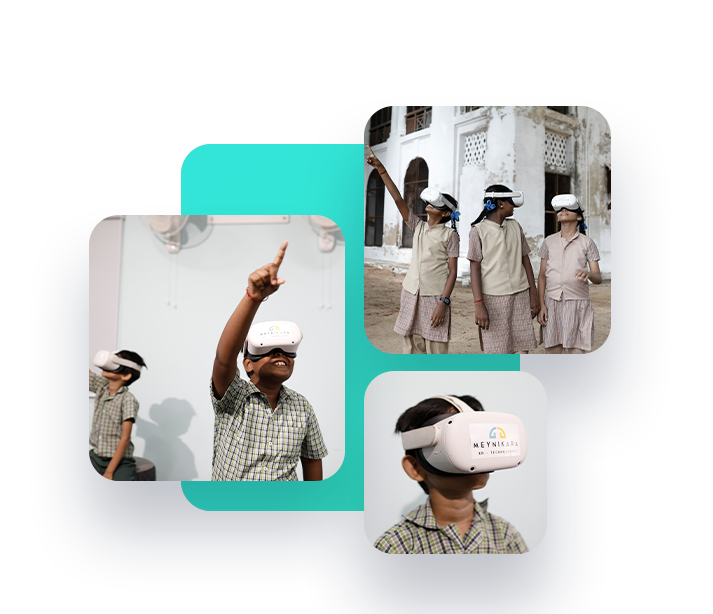
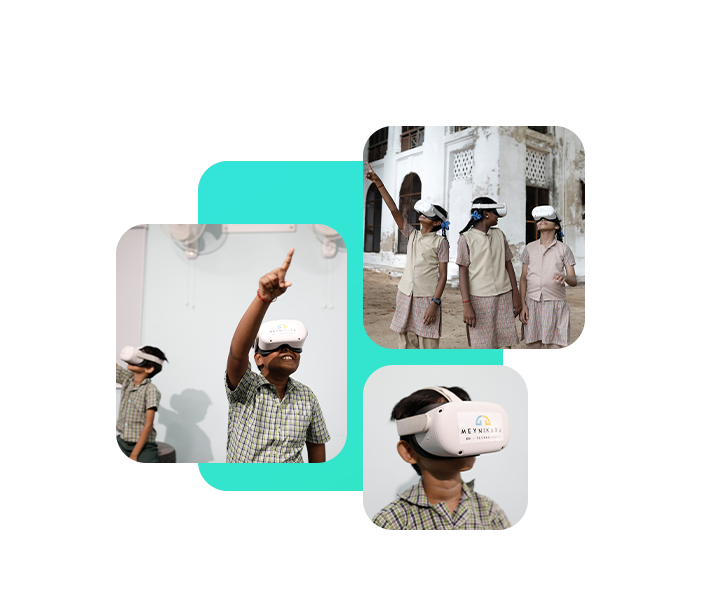
update

diff --git a/src/page/ARRA/page4/ARRAPage4.js b/src/page/ARRA/page4/ARRAPage4.js
@@ -35,7 +35,7 @@ const ARRAPage4 = () => {
           minH={"40vh"}
           color={"white"}
         >
-          <Image src={b_img} h={{ base: "45vh", lg: "60vh" }} alt="b_img" />
+          <Image src={b_img} h={{ md: "45vh", lg: "60vh" }} alt="b_img" />
         </GridItem>
         <GridItem
           display={"flex"}
@@ -57,7 +57,11 @@ const ARRAPage4 = () => {
             alignItems={"center"}
             minH={"40vh"}
           >
-            <Image src={b_img} h={{ base: "45vh", lg: "60vh" }} alt="b_img" />
+            <Image
+              src={b_img}
+              h={{ base: "100%", md: "45vh", lg: "60vh" }}
+              alt="b_img"
+            />
           </Box>
           <Accordion defaultIndex={[0]} allowToggle>
             <AccordionItem border={0}>

diff --git a/src/page/METAKalvi/page4/MK4.js b/src/page/METAKalvi/page4/MK4.js
@@ -63,7 +63,11 @@ const MK4 = () => {
             alignItems={"center"}
             minH={"40vh"}
           >
-            <Image src={b_img} h={{ base: "45vh", lg: "80vh" }} alt="b_img" />
+            <Image
+              src={b_img}
+              h={{ base: "100%", md: "45vh", lg: "60vh" }}
+              alt="b_img"
+            />
           </Box>
           <UnorderedList>
             <ListItem
